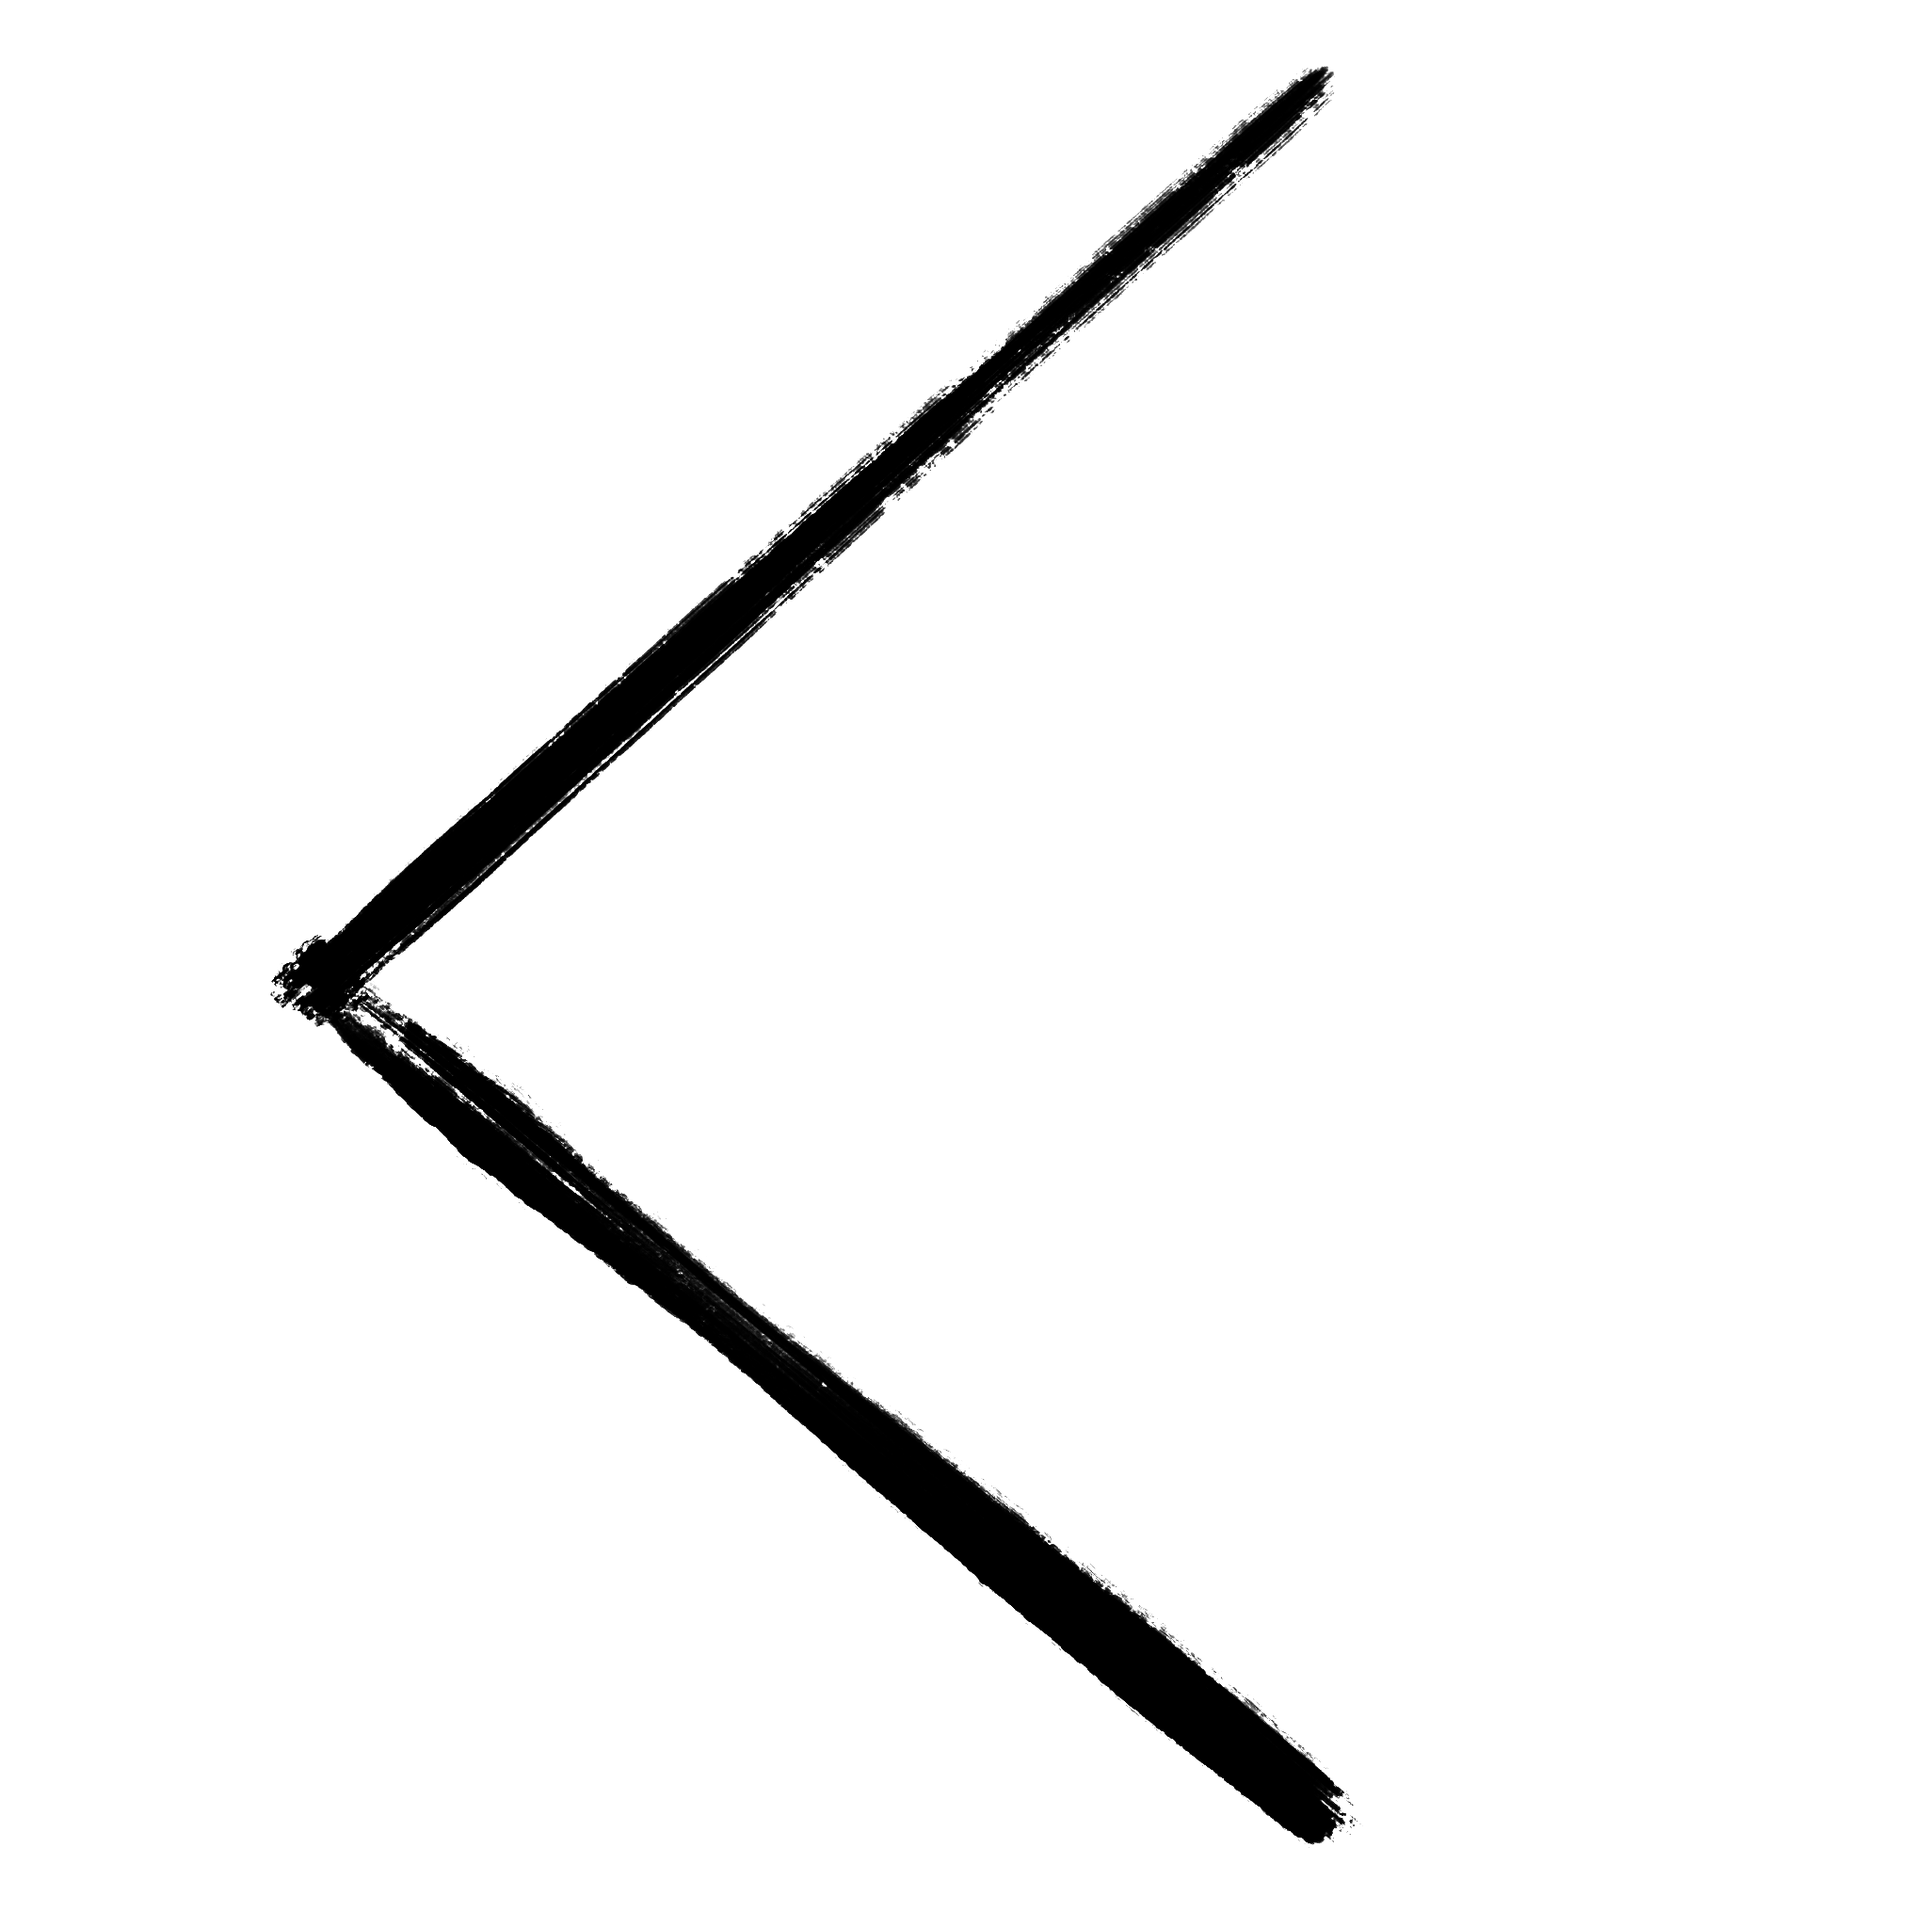
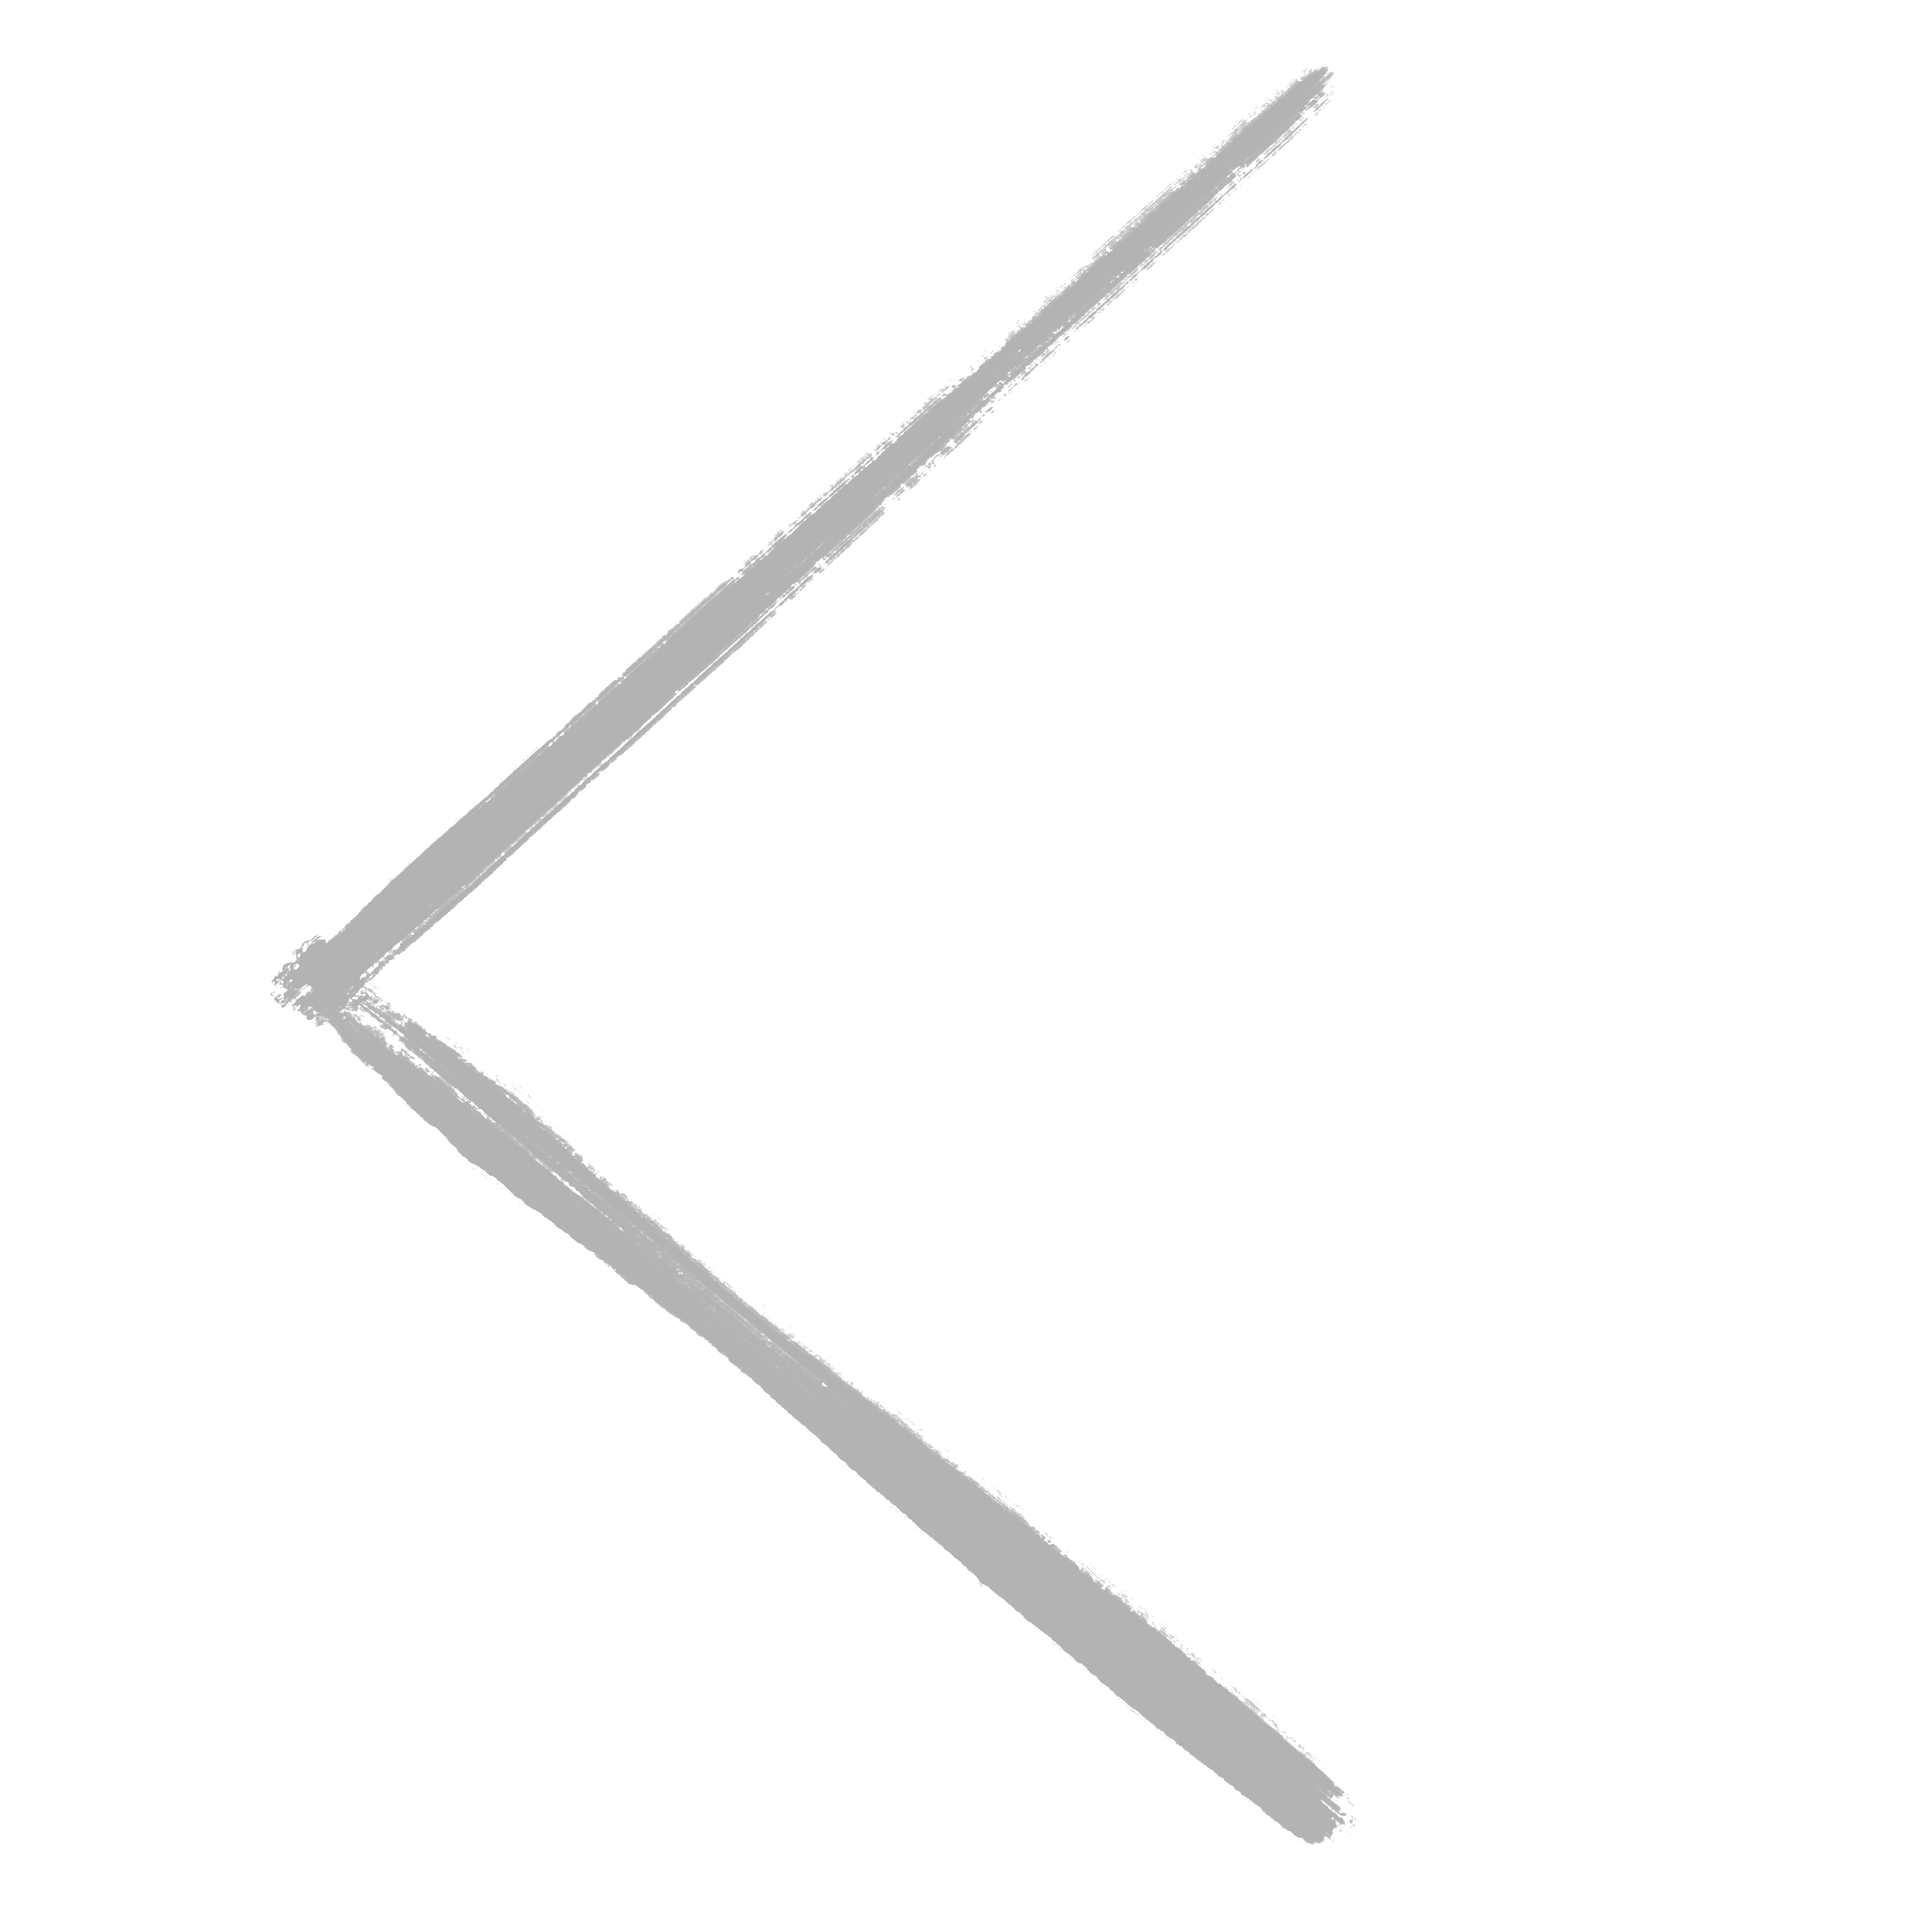
night mode

Changed region(s): [[0.125, 0.0312, 0.7188, 0.9688]]

diff --git a/my_web_pages/assets/css/navbar.css b/my_web_pages/assets/css/navbar.css
@@ -6,7 +6,7 @@ header {
   margin-right: 0;
   min-width: 100%;
   top: 0;
-  background-color: rgba(0, 0, 0, 0.3);
+  background-color: rgba(43,43,43, 0.8);
 }
 
 
@@ -74,7 +74,7 @@ nav #profileImage {
   position: absolute;
   width: 100%;
   height: 2px;
-  background-color: #616161;
+  background-color: rgba(183, 182, 182, 1);
   transition-duration: 0.25s;
 }
 .menu__btn > span::before {
@@ -95,20 +95,17 @@ nav #profileImage {
   margin: 0;
   padding: 80px 0;
   list-style: none;
-  background-color: #eceff1;
+  background-color: rgba(49,51,53,255);
   box-shadow: 2px 2px 6px rgba(0, 0, 0, 0.4);
   transition-duration: 0.25s;
 }
 .menu__item {
   display: block;
   padding: 12px 24px;
-  color: #333;
+  color: lightgray;
   font-family: "Roboto", sans-serif;
   font-size: 20px;
   font-weight: 600;
   text-decoration: none;
   transition-duration: 0.25s;
-}
-.menu__item:hover {
-  background-color: #cfd8dc;
 }

diff --git a/my_web_pages/assets/css/style.css b/my_web_pages/assets/css/style.css
@@ -1,4 +1,11 @@
+* {
+    color: lightgrey;
+}
+body {
+    background-color: rgba(43,43,43,255);
+}
 html {
+    background-color: rgba(43,43,43,255);
     width: 100%;
 }
 header img {
@@ -10,3 +17,6 @@ code {
     color: black;
 }
 
+main {
+    background-color: rgba(43,43,43,255);
+}

diff --git a/my_web_pages/userProfile.php b/my_web_pages/userProfile.php
@@ -15,10 +15,10 @@ $user_info = get_user_info($_GET["user_id"]);
     <link rel="shortcut icon" type="image/png" href="assets/images/logo.png" />
     <link href="https://cdn.jsdelivr.net/npm/bootstrap@5.3.2/dist/css/bootstrap.min.css" rel="stylesheet" integrity="sha384-T3c6CoIi6uLrA9TneNEoa7RxnatzjcDSCmG1MXxSR1GAsXEV/Dwwykc2MPK8M2HN" crossorigin="anonymous">
     <link rel="stylesheet" href="https://cdn.jsdelivr.net/npm/bootstrap-icons@1.11.3/font/bootstrap-icons.min.css">
-    <link rel="stylesheet" href="./assets/css/chrome.css">
-    <link rel="stylesheet" href="./assets/css/style.css">
-    <link rel="stylesheet" href="./assets/css/profile.css">
-    <link rel="stylesheet" href="./assets/css/navbar.css">
+    <link rel="stylesheet" href="assets/css/chrome.css">
+    <link rel="stylesheet" href="assets/css/style.css">
+    <link rel="stylesheet" href="assets/css/profile.css">
+    <link rel="stylesheet" href="assets/css/navbar.css">
 </head>
 
 <body>
@@ -26,7 +26,7 @@ $user_info = get_user_info($_GET["user_id"]);
 
     <div class="row m-2">
         <div id="profileImageContainer" class="col-3">
-            <img src="./show_image.php?image=<?php echo ($user_info["profile_image_path"]); ?>" alt="profile image" id="profileImage">
+            <img src="show_image.php?image=<?php echo ($user_info["profile_image_path"]); ?>" alt="profile image" id="profileImage">
         </div>
         <div id="" class="col-6">
             <h1 id="profileNickname"><?php echo ($user_info["username"]) ?></h1>
@@ -43,7 +43,7 @@ $user_info = get_user_info($_GET["user_id"]);
     <?php
     if (login_check($mysqli)) :
     ?>
-        <main class="container p-2 mt-5 bg-white">
+        <main class="container p-2 mt-5">
             <h1 class="fw-bolder border-bottom py-3">Posts</h1>
             <?php
             require_once("get_feed.php");

diff --git a/my_web_pages/show_posts.php b/my_web_pages/show_posts.php
@@ -26,9 +26,9 @@ function show_posts(Array $posts) {
         <?php endif; ?>
         <form>
             <label for="like" class="d-none">Click here to like this post</label>
-            <button id="like" type="button" onclick="like_post(<?php echo $post['id'] ?>);" class="border-0 bg-white bi bi-heart-fill"> <?php echo $post["likes"] ?></button>
+            <button id="like" type="button" onclick="like_post(<?php echo $post['id'] ?>);" class="border-0 bi bi-heart-fill"> <?php echo $post["likes"] ?></button>
             <label for="comments" class="d-none">Click here to go to the comments</label>
-            <a href="show_comments_of_post.php?post_id=<?php echo $post["id"] ?>" id="comments" class="border-0 bg-white bi bi-chat-right-fill"> 5</a>
+            <a href="show_comments_of_post.php?post_id=<?php echo $post["id"] ?>" id="comments" class="border-0 bi bi-chat-right-fill"> 5</a>
         </form>
         <form action="process_save_post.php" method="post">
             <input type="hidden" name="post_id" value="<?php echo $post["id"]; ?>">

diff --git a/my_web_pages/feed.php b/my_web_pages/feed.php
@@ -5,9 +5,9 @@
     <meta name="viewport" content="width=device-width, initial-scale=1.0">
     <link rel="shortcut icon" type="image/png" href="assets/images/logo.png" />
     <link href="https://cdn.jsdelivr.net/npm/bootstrap@5.3.2/dist/css/bootstrap.min.css" rel="stylesheet" integrity="sha384-T3c6CoIi6uLrA9TneNEoa7RxnatzjcDSCmG1MXxSR1GAsXEV/Dwwykc2MPK8M2HN" crossorigin="anonymous">
-    <link rel="stylesheet" href="./assets/css/chrome.css">
-    <link rel="stylesheet" href="./assets/css/style.css">
-    <link rel="stylesheet" href="./assets/css/navbar.css">
+    <link rel="stylesheet" href="assets/css/chrome.css">
+    <link rel="stylesheet" href="assets/css/style.css">
+    <link rel="stylesheet" href="assets/css/navbar.css">
     <title>For you</title>
 </head>
 <body>
@@ -17,7 +17,7 @@
     <?php
         if (login_check($mysqli)):
     ?>
-        <main class="container p-2 mt-3 bg-white">
+        <main class="container p-2 mt-3">
         <h1 class="fw-bolder border-bottom py-3">Posts</h1>
     <?php
         require_once("get_feed.php");

diff --git a/my_web_pages/notifications.php b/my_web_pages/notifications.php
@@ -17,7 +17,7 @@
     <?php
         if (login_check($mysqli)):
     ?>
-        <main class="container p-2 mt-3 bg-white">
+        <main class="container p-2 mt-3">
         <h1 class="fw-bolder border-bottom py-3">Notifications</h1>
     <?php
         require_once("get_feed.php");
